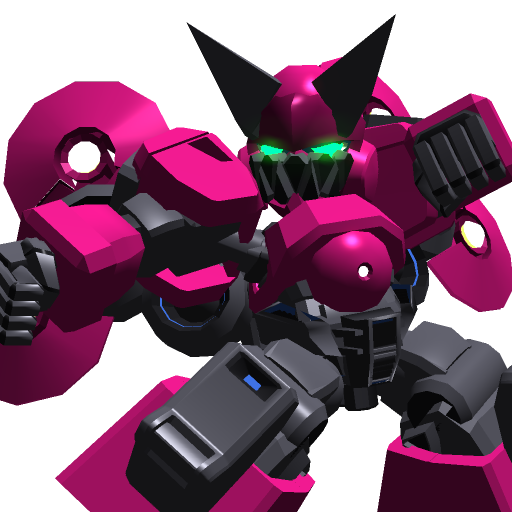
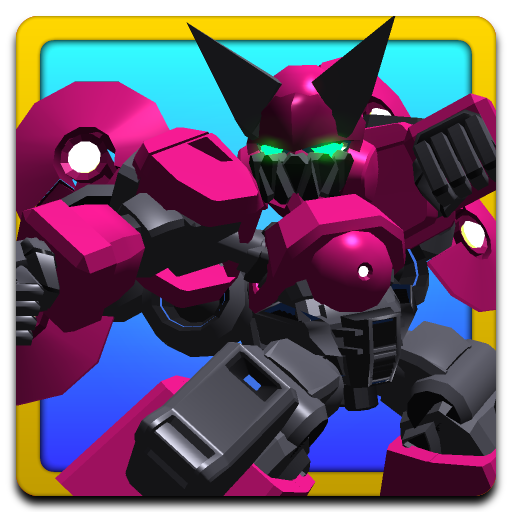
アームドーザアイコンの背景は画像側で用意するようにした

Changed region(s): [[0.0, 0.0312, 1.0, 1.0], [0.5, 0.4062, 0.5625, 0.4688], [0.125, 0.3438, 0.1562, 0.375]]

diff --git a/src/css/style.css b/src/css/style.css
@@ -262,7 +262,4 @@
     object-fit: cover;
     width: 30%;
     margin: calc(var(--responsive-font-size) * 0.5);
-    border-radius: calc(var(--responsive-font-size) * 0.5);
-    background-image: linear-gradient(to top, #00c6fb 0%, #005bea 100%);
-    box-shadow: 0 0 0 8px #ddbb04 inset;
 }
